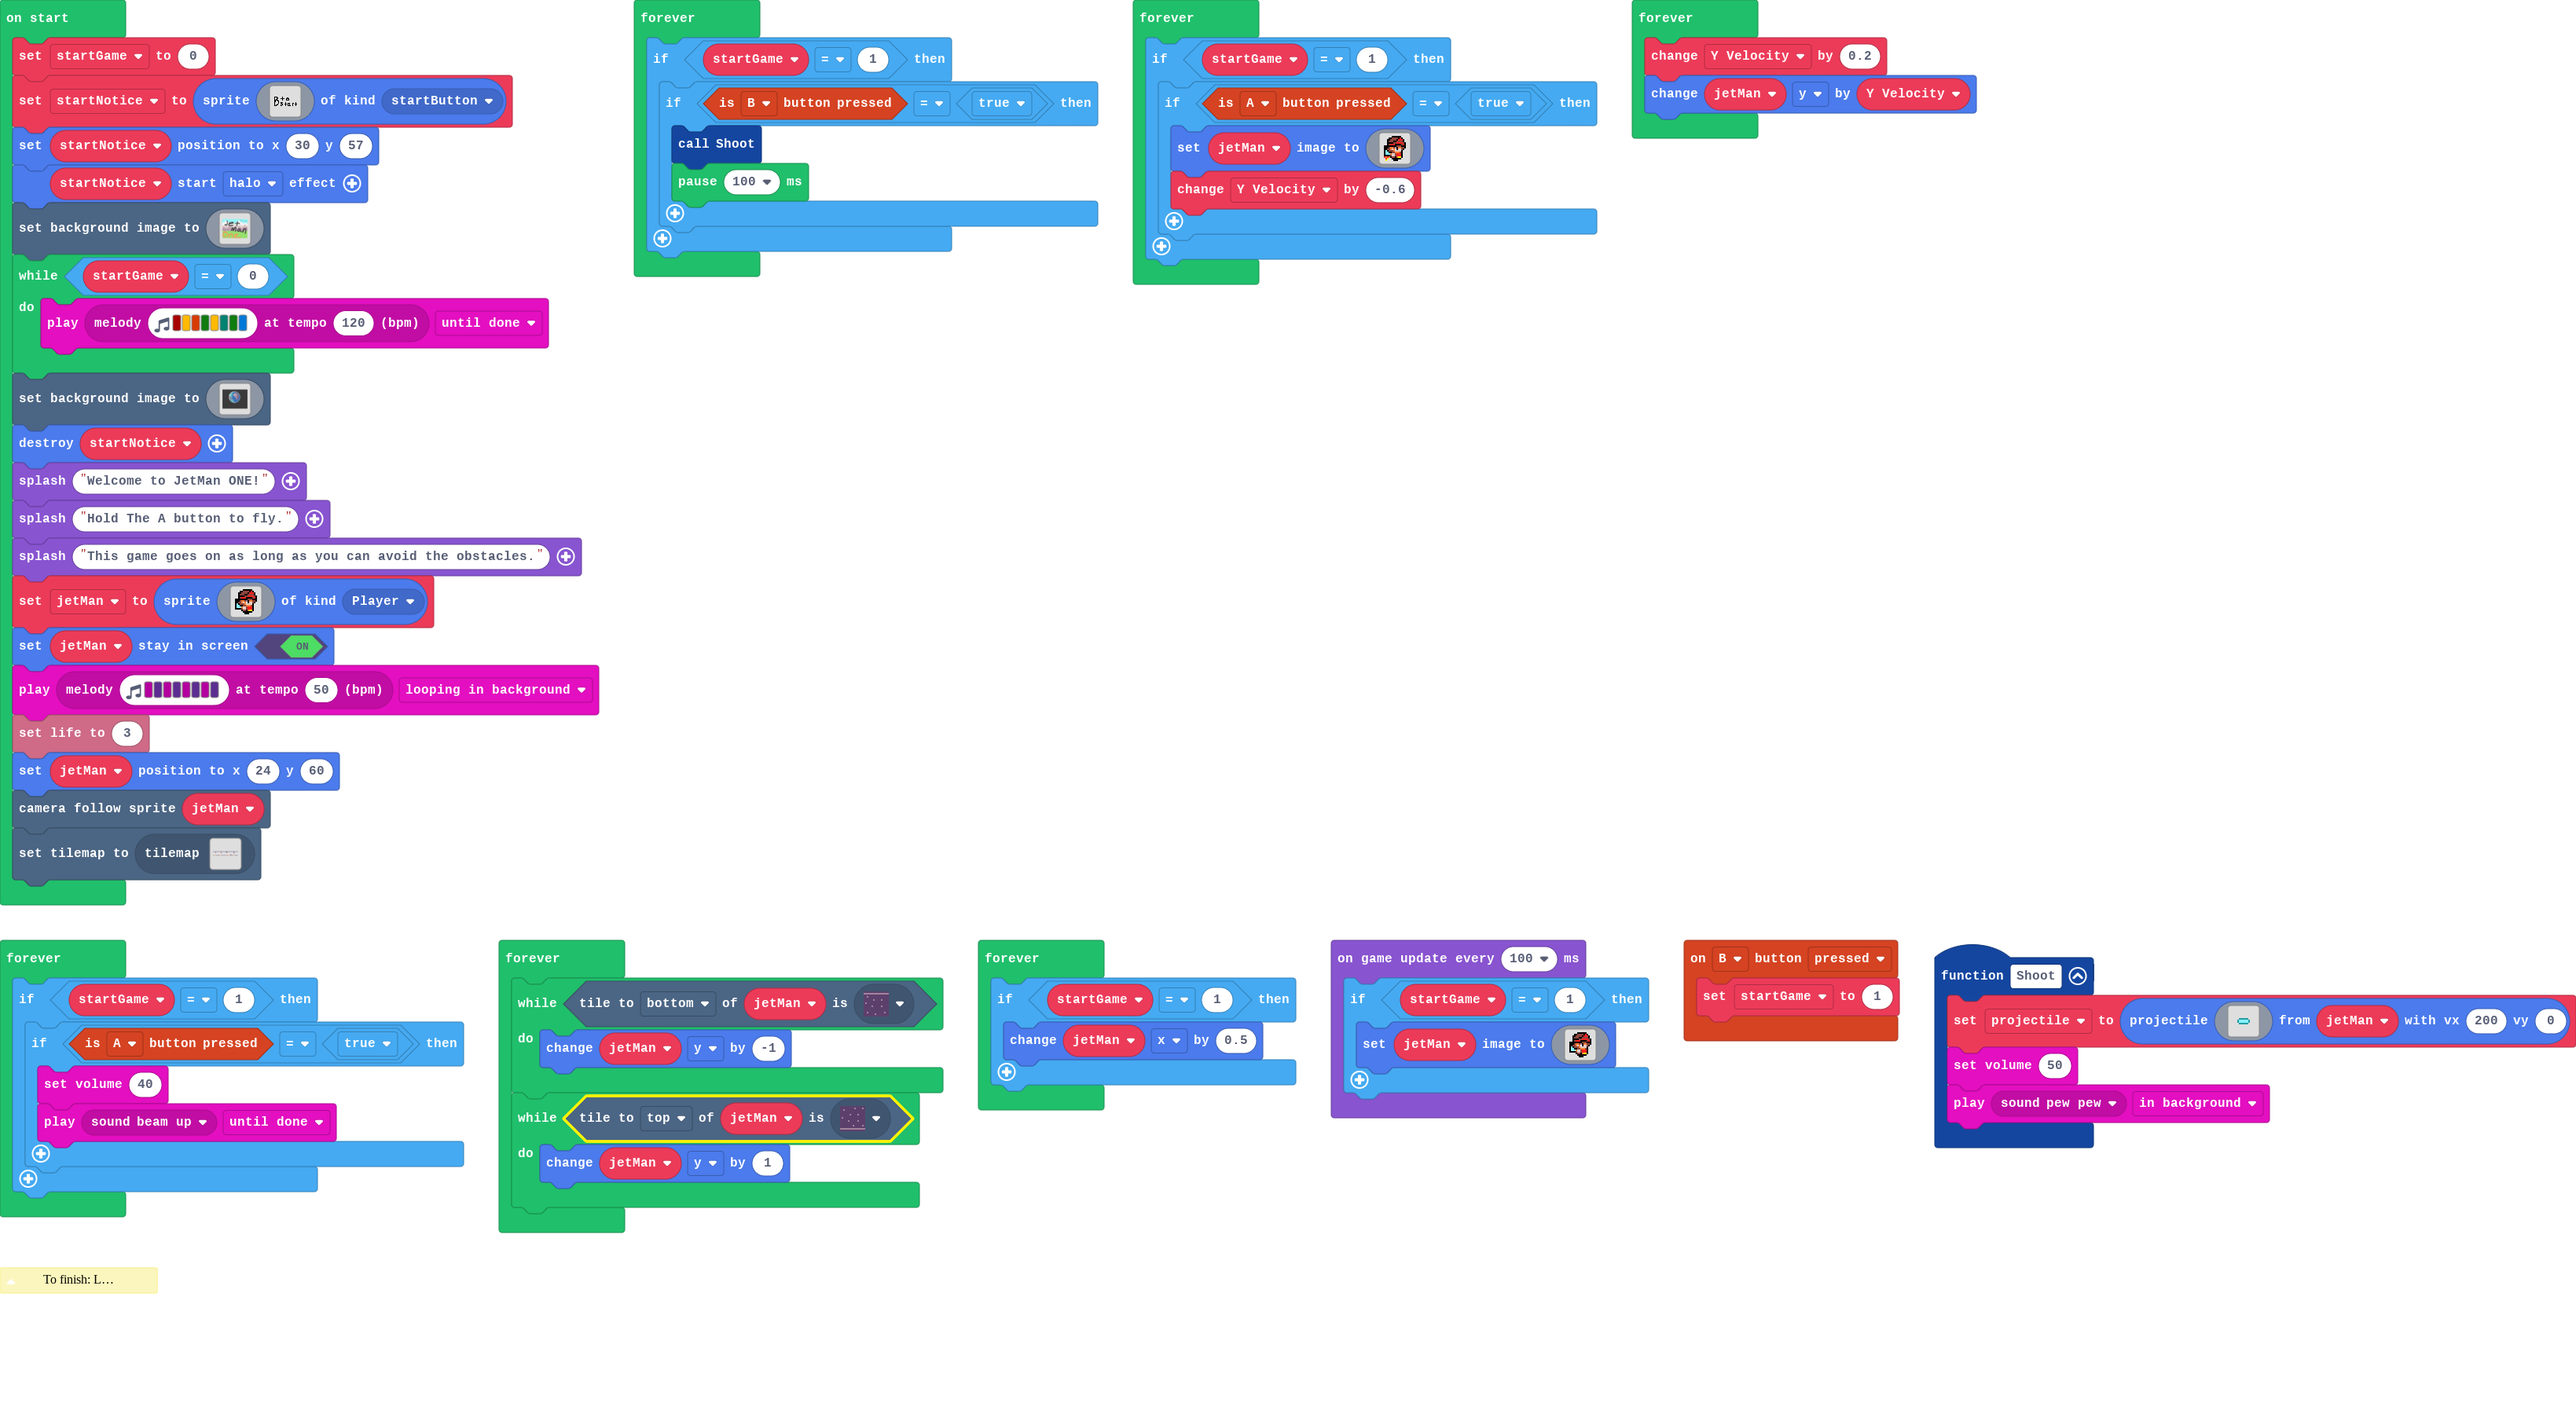
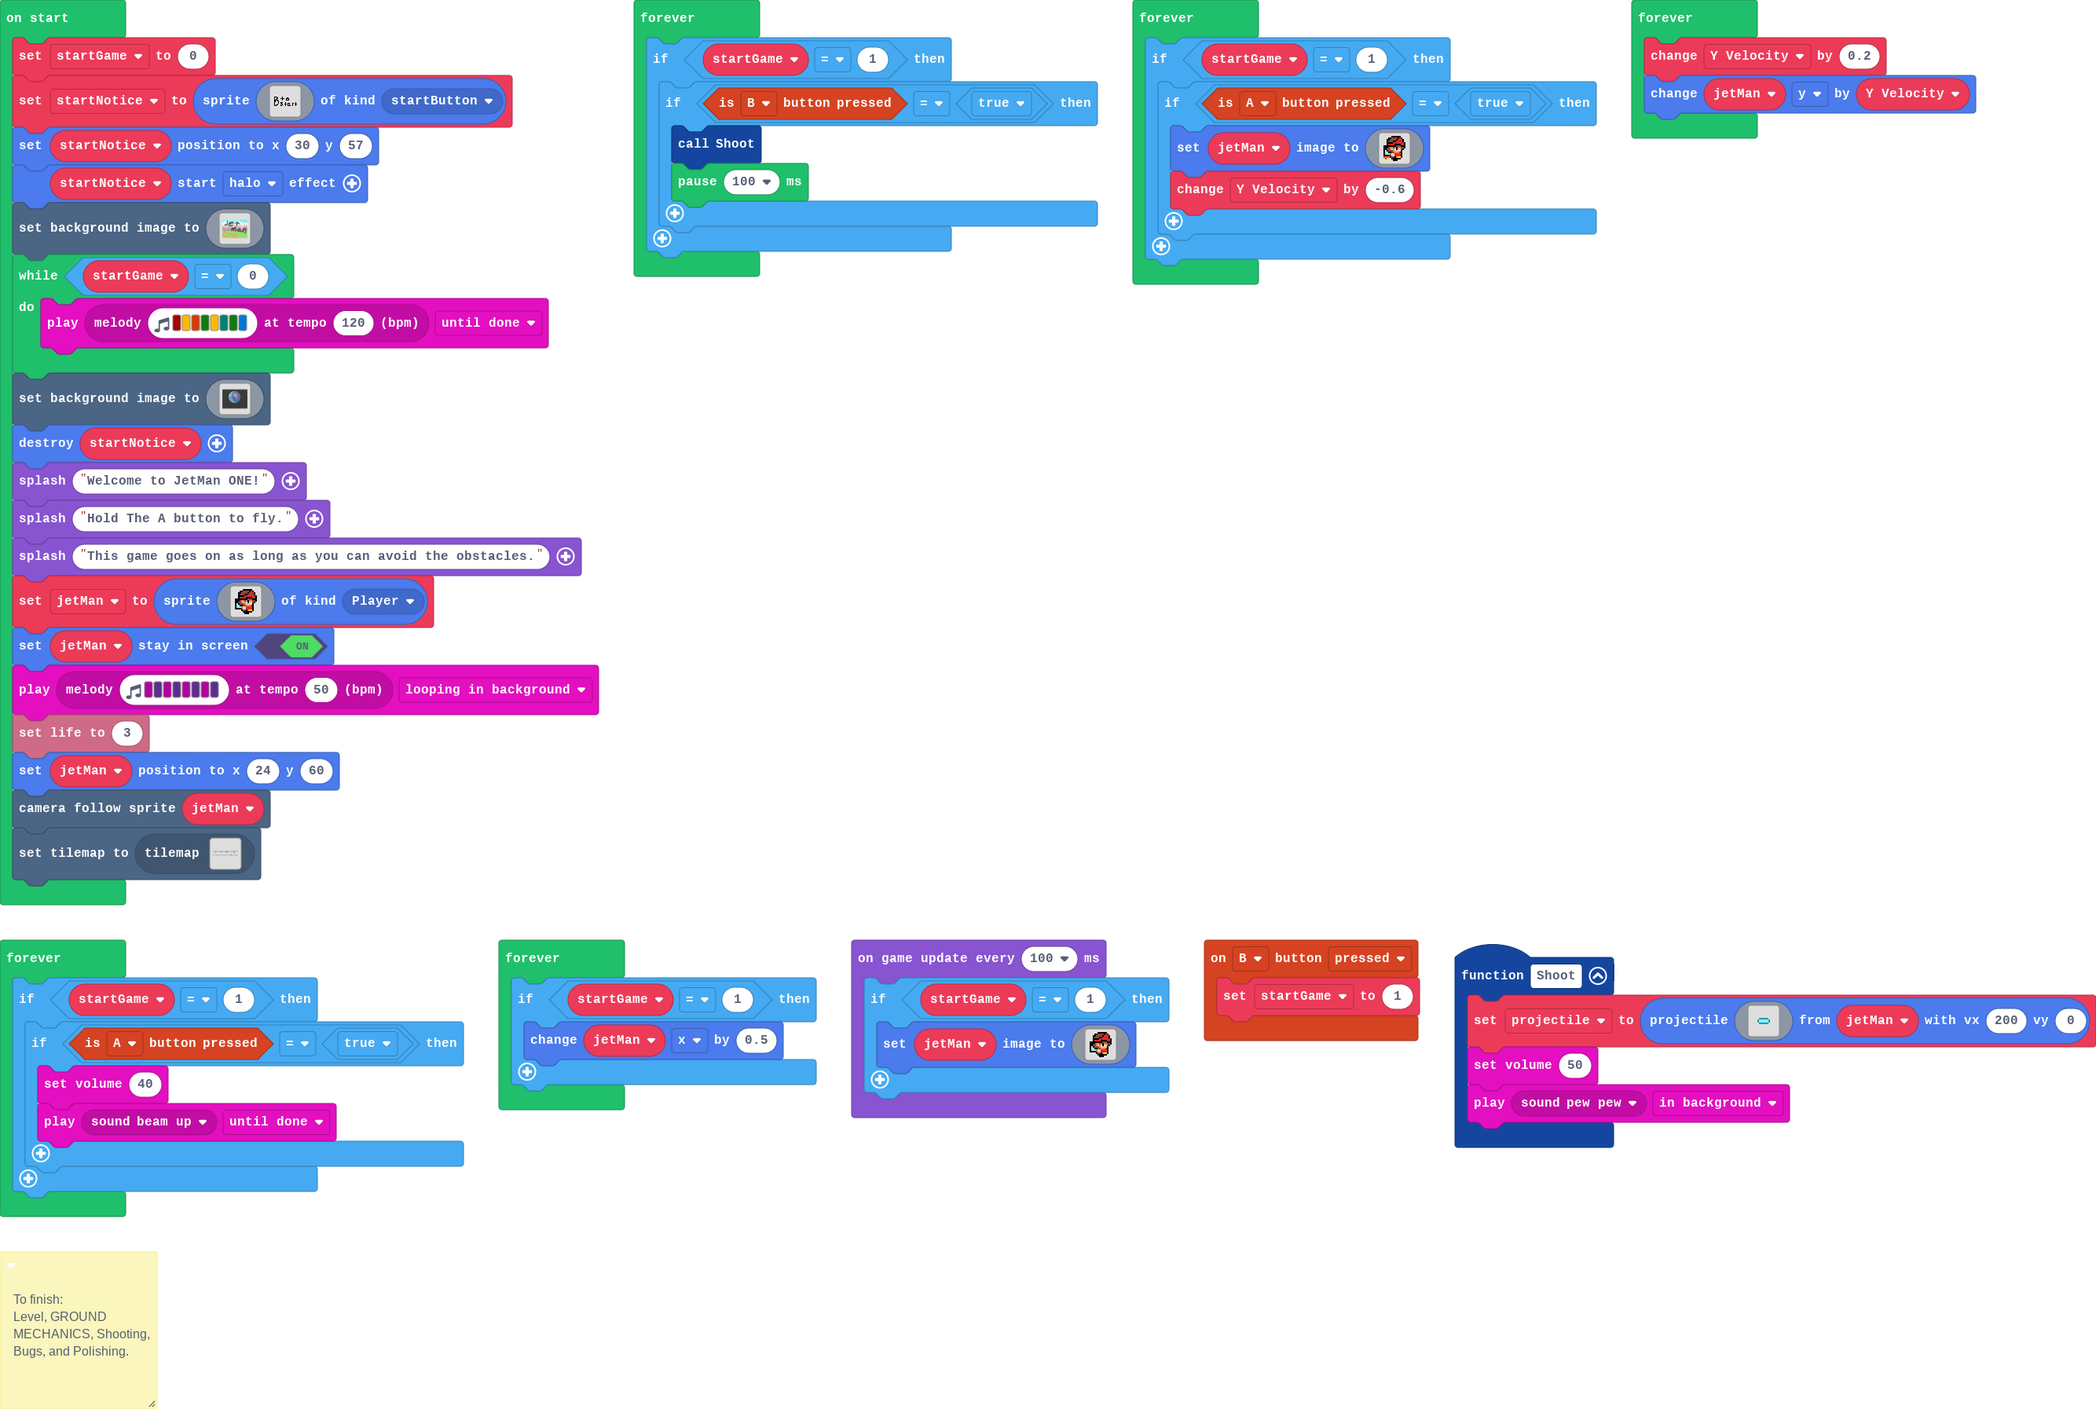
Update main.blocks, main.ts

Changed region(s): [[0.0, 0.0, 1.0, 1.0]]

diff --git a/main.ts b/main.ts
@@ -4,7 +4,7 @@ namespace SpriteKind {
 /**
  * To finish:
  * 
- * Level, Shooting, Bugs, and Polishing.
+ * Level, GROUND MECHANICS, Shooting, Bugs, and Polishing.
  */
 controller.B.onEvent(ControllerButtonEvent.Pressed, function () {
     startGame = 1
@@ -81,14 +81,6 @@ forever(function () {
             music.setVolume(40)
             music.play(music.melodyPlayable(music.beamUp), music.PlaybackMode.UntilDone)
         }
-    }
-})
-forever(function () {
-    while (jetMan.tileKindAt(TileDirection.Bottom, sprites.dungeon.darkGroundNorth)) {
-        jetMan.y += -1
-    }
-    while (jetMan.tileKindAt(TileDirection.Top, sprites.dungeon.darkGroundSouth)) {
-        jetMan.y += 1
     }
 })
 forever(function () {
